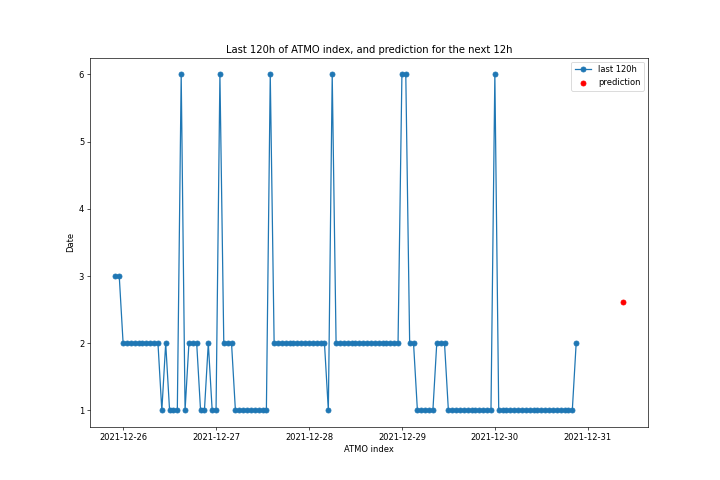
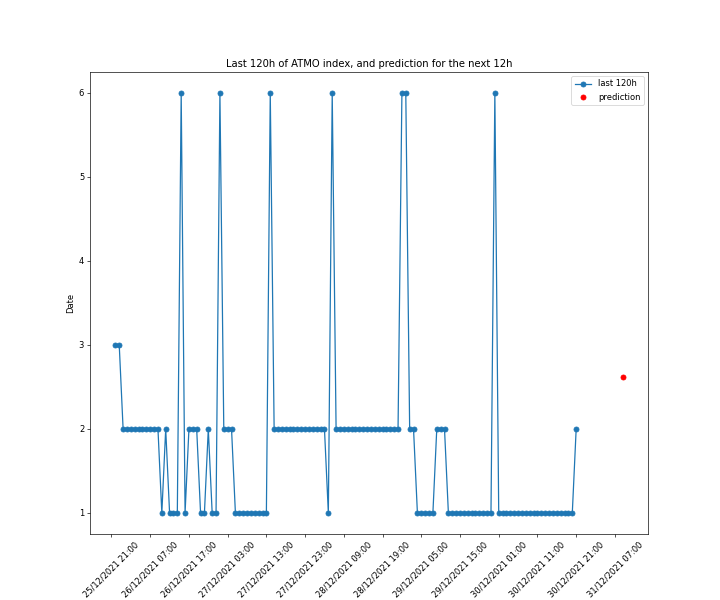
last modifs UI

diff --git a/AirQualityUI/v2/predinfos.py b/AirQualityUI/v2/predinfos.py
@@ -3,6 +3,7 @@ from PyQt5.QtGui import *
 from PyQt5.QtCore import *
 from PyQt5.QtWidgets import *
 import matplotlib.pyplot as plt
+import matplotlib.dates as mdates
 from pandas import to_datetime
 from AirQualityUI.utils.model_integration import formatDataframe, getDateNext12h
 
@@ -15,7 +16,7 @@ class PredInfos(QMainWindow):
         self.callingWindow = callingWindow
 
         self.WIDTH = 800
-        self.HEIGHT = 500
+        self.HEIGHT = 600
 
         self.setFixedSize(self.WIDTH, self.HEIGHT)
         self.setWindowTitle("CiteosVision - Technical Window")
@@ -49,20 +50,24 @@ class PredInfos(QMainWindow):
         return df, gb
 
     def testPlot(self):
+        myFmt = mdates.DateFormatter('%d/%m/%Y %H:%M')
+        path = "../../images/figs/testfig.png"
         X = self.df.date[-120:]
         Y = self.df.atmo_cat[-120:]
         pred, color = self.mainWindow.getPredictions()
-        plt.figure(figsize=(12, 8))
+        f, ax = plt.subplots(figsize=(12, 10))
         plt.plot(X, Y, linestyle="-", marker='o', label="last 120h")
         lastDate = self.callingWindow.getLastDate()
         nextDate = getDateNext12h(lastDate)
         Xpred = to_datetime(np.array([nextDate]))
         Ypred = np.array([pred])
-        plt.scatter(Xpred, Ypred, c="red", label="prediction")
-        plt.title("Last 120h of ATMO index, and prediction for the next 12h")
-        plt.xlabel("ATMO index")
-        plt.ylabel("Date")
-        plt.legend()
-        path = "../../images/figs/testfig.png"
+        ax.scatter(Xpred, Ypred, c="red", label="prediction")
+        ax.set_title("Last 120h of ATMO index, and prediction for the next 12h")
+        ax.set_xlabel("ATMO index")
+        ax.set_ylabel("Date")
+        ax.xaxis.set_major_formatter(myFmt)
+        ax.xaxis.set_major_locator(mdates.HourLocator(interval=10))
+        ax.tick_params(axis='x', labelrotation=45)
+        ax.legend()
         plt.savefig(path, dpi=60)
         return QPixmap(path)

diff --git a/AirQualityUI/v2/userwindow.py b/AirQualityUI/v2/userwindow.py
@@ -58,8 +58,8 @@ class UserWindow(QMainWindow):
         self.adviceLabel.setVisible(False)
 
     def set_basic_ui(self):
-        title = QLabel("UserVision", self)
-        title.setGeometry(round(self.WIDTH / 2 - 200 / 2), 10, 200, 40)
+        title = QLabel("ATMO index for the next 12h", self)
+        title.setGeometry(round(self.WIDTH / 2 - 400 / 2), 10, 400, 40)
         title.setAlignment(Qt.AlignCenter)
         title.setFont(self.callingWindow.titleFont)
 

diff --git a/AirQualityUI/v2/techwindow.py b/AirQualityUI/v2/techwindow.py
@@ -128,5 +128,5 @@ class TechWindow(QMainWindow):
 
     def showDetails(self):
         self.predInfosWindow = PredInfos(self, self.callingWindow)
-        self.predInfosWindow.show()
         self.popup.close()
+        self.predInfosWindow.show()
